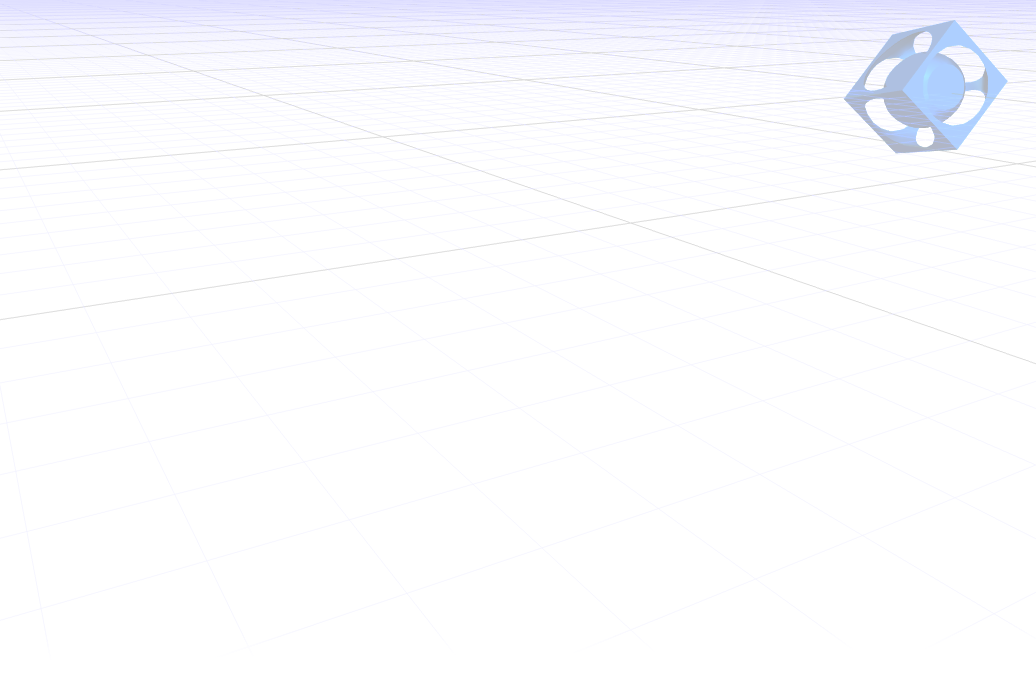
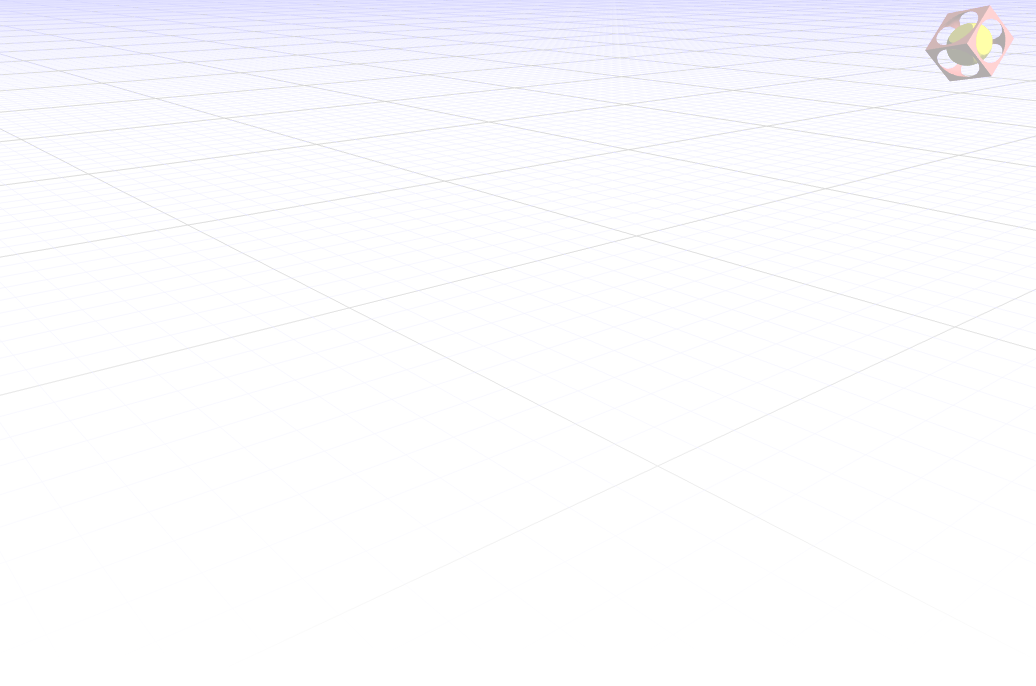
WIP

diff --git a/jsdoc/assets/static/jscad-docs.css b/jsdoc/assets/static/jscad-docs.css
@@ -1,7 +1,5 @@
 body {
-    background: url(img/bkg.png);
-    background-repeat: no-repeat;
-    background-position: top left;
+    background: url(img/bkg.png) no-repeat top left;
 }
 
 nav {
@@ -11,7 +9,6 @@ nav {
 section {
     background: none;
 }
-
 
 h4.name {
     background: #446997;
@@ -25,15 +22,18 @@ h4.name a {
     font-weight: bold;
     color: #779fcc;
     font-size: 21px;
-    margin: 30px 0 0px;
+    margin: 30px 0 0;
 }
+
 #main p {
-    margin: 10px 0px;
+    margin: 10px 0;
     line-height: 23px;
 }
+
 nav h3 {
     margin: 12px 0 2px;
 }
+
 nav h2 {
     font-size: 13px;
     margin: 4px 0 0 0;
@@ -41,26 +41,51 @@ nav h2 {
 }
 
 .usertext h1, h1.page-title {
-    font-size: 38px;
     margin: 30px 30px 20px;
-    line-height: 100%;
     word-wrap: break-word;
-    font-weight: bold;
-    color: #1a64a57a;
     text-decoration: underline;
-    text-transform: inherit;
-    text-shadow: 6px 6px 5px rgba(0,0,0,0.1);
+    box-sizing:border-box;
+    color:rgb(119, 159, 204);
+    display:block;
+    font-family:Montserrat, sans-serif;
+    font-size:38px;
+    font-weight:700;
+    line-height:38px;
+    margin-block-end:20px;
+    margin-block-start:30px;
+    margin-inline-end:30px;
+    margin-inline-start:30px;
+    overflow-wrap:break-word;
+    text-decoration-color:rgb(119, 159, 204);
+    text-decoration-style:solid;
+    text-shadow:rgba(0, 0, 0, 0.06) 6px 6px 5px;
+    text-transform:none;
+}
+
+.readme h1 {
+    margin-left: 0;
+}
+
+.readme blockquote {
+    margin-left: 0;
 }
 
 header h2 {
     display: none;
 }
+
 h4.name {
-    background: #446997;
+    background: linear-gradient(to bottom, #5c88be 0%, #335785 100%);
     margin-top: 4em;
 }
+
 h4.name:nth-child(3) {
     margin-top: 1em;
+}
+
+#main article table p {
+    margin: 0;
+    line-height: 18px;
 }
 
 nav > h2 > a {
@@ -99,12 +124,8 @@ nav > ul > li.collapsable.open > a {
 }
 
 nav ul ul a {
-    color: hsl(0deg 0% 42%);
+    color: hsl(0, 0%, 42%);
     border-left: 1px solid hsl(207, 10%, 86%);
-}
-
-.type-signature, .signature {
-    color: #95d1a7;
 }
 
 a, a:active {
@@ -116,15 +137,31 @@ article a:hover, article a:active {
     border-bottom-color: #030a1c;
 }
 
+.type-signature, .signature {
+    color: #95d1a7;
+}
+
 pre.prettyprint {
     margin-top: 3px;
 }
 
 .prettyprint > code {
     padding: 10px;
-    /* border: 1px solid rgba(0,0,0,0.5); */
     color: darkblue;
-    background-color: #e3e9fa;
+    background-color: rgba(227, 228, 250, 0.35);
+}
+
+.prettyprint.source {
+     background: none;
+}
+
+footer {
+    opacity: 0.6;
+    font-size: 10px;
+}
+
+td, th {
+    padding: 4px 6px;
 }
 
 .pln { color: #ab3737;}

diff --git a/packages/examples/old/various/logo.js b/packages/examples/old/various/logo.js
@@ -7,21 +7,22 @@
 
 const { cube, sphere } = require('@jscad/modeling').primitives
 const { union, subtract, intersect } = require('@jscad/modeling').booleans
-const { rotate } = require('@jscad/modeling').transforms
+const { rotate, translate } = require('@jscad/modeling').transforms
+const { colorize } = require('@jscad/modeling').colors
 
 
 function main () {
-  var small = union(
-    subtract(
+  var small = [
+    colorize([1,.6,0.6], translate([0,0,3],rotate([0.3,0.8,0],subtract(
       cube({size: 3}),
       sphere({radius: 2})
-    ),
-    intersect(
+    )))),
+    colorize([1,1,0], translate([0,0,3],rotate([0.3,0.8,0],intersect(
       sphere({radius: 1.3}),
       cube({size: 2.1})
-    )
-  )
-  return rotate([0.3,0.8,0],small)
+    ))))
+  ]
+  return small
 
   var large = union(
     subtract(
